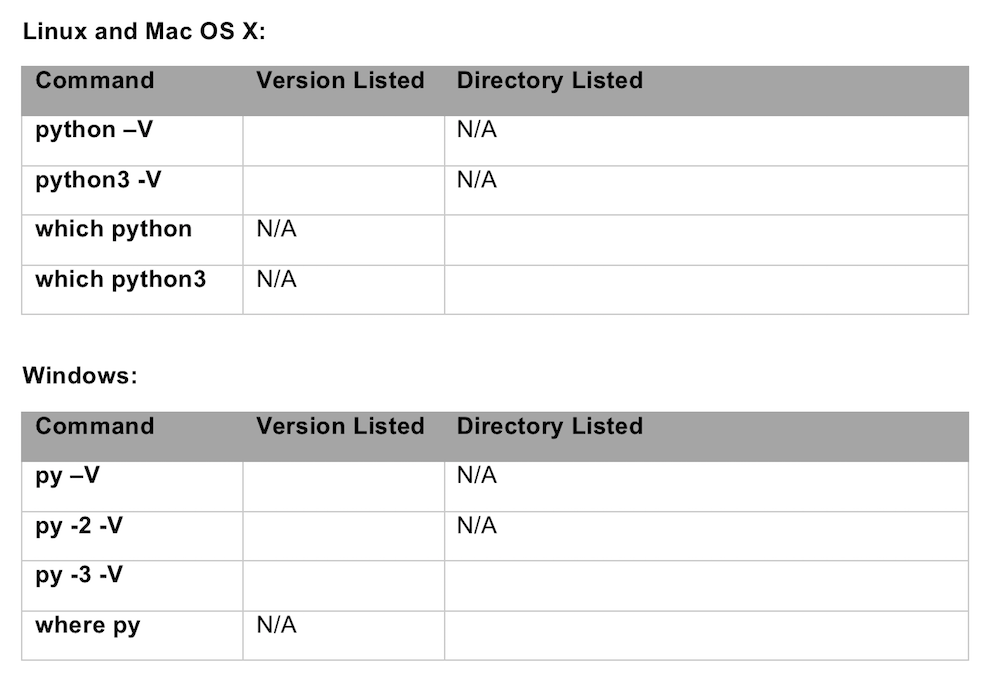
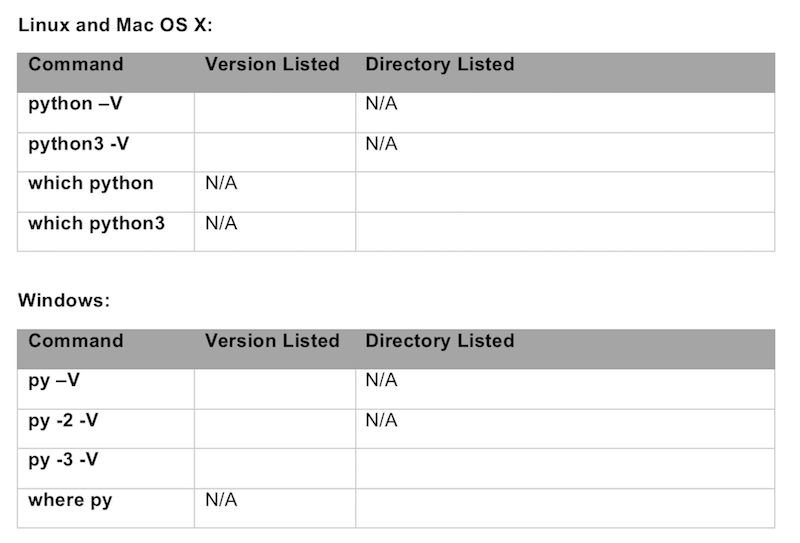
Edits to mod 2 labs 1, 2, 3 per Chris Burns Word doc vs web page review
Chris B is tasked to view web pages on the staging server vs. the Word doc for formatting, content presence or changes, etc. He did so, made notes, and I edited the MD files etc. These are the changes.  NO module 1 lab files changed with this commit.

diff --git a/labs/02-python-01-home-lab-python/5.md b/labs/02-python-01-home-lab-python/5.md
@@ -1,5 +1,4 @@
 # Installing and Verifying Python 2.7
-----------------------------------------
 
 Now that you know what you have installed, what do you want installed? Do you want a recent 2.x and 3.x Python interpreter? Do you only want to use Python 3.x (that is, some recent version 3 code)? Or only Python 2.7?
 
@@ -35,7 +34,7 @@ The installation process on most Windows OS’s follows a pretty typical Windows
 
 Note that on Windows, you should take the extra steps to put the **python** command in your system’s execution path. The Python installer, by default, does not add the directories with the Python commands in them to the PATH variable. You should override that default at installation, adding Python to your PATH. For Python 2.7, you have to first select the option to use custom settings for the installation, and then look for the option to add the commands to the path, as shown on the left side of the figure. The Python 3.6 process puts the checkbox on a screen that is part of each system’s installation process, as shown on the right side of the figure.
 
-![alt text](/posts/files/02-python-01-home-lab-python/assets/images/desktop-1-10.png)
+![alt text](/posts/files/02-python-01-home-lab-python/assets/images/desktop-1-09.png)
 
 ## Installing Python 2.7 on Linux
 
@@ -59,7 +58,7 @@ To install Python, or upgrade from an older minor version, use the **apt-get** o
 
 Note that Linux package managers may not have the latest Python version in their index, so that you can install a recent - but not most recent - release of Python. The package manager may be more convenient, but the package installer might be a few minor versions behind. For instance, if using the apt package manager, you could compare the specific releases that you could install with both installation options as follows:
 
--   From any web browser, check the Python Software Foundation downloads page to find the most recent release. (You can download the most recent release, or earlier releases as well.)
+-   From any web browser, check the [Python Software Foundation downloads page](https://www.python.org/downloads/) to find the most recent release. (You can download the most recent release, or earlier releases as well.)
 
 -   From a command shell, use the **sudo apt show python** command, which lists details about the python package per the apt index. Near the top, you should see a range of specific version/release numbers that apt can install.
 
@@ -69,9 +68,9 @@ Apple includes Python 2.x with Mac OS X, and if your Mac has a recent OS, Python
 
 Regardless, you can install the latest Python (to upgrade the existing Python) if you prefer. To do so, you have two options:
 
--   Similar to Windows: Download an installer file for that option from python.org
+-   Similar to Windows: Download an installer file for that option from [python.org](https://www.python.org)
 
--   Similar to Linux: Use an OS X application package manager, like HomeBrew, to find and install the Python interpreter.
+-   Similar to Linux: Use an OS X application package manager, like [HomeBrew](https://brew.sh/), to find and install the Python interpreter.
 
 The first option follows the same general steps as just listed for a Windows installation. You browse the [python.org site](https://www.python.org/downloads/mac-osx/), download the installer (a .dmg file for OS X), and run the installer file to walk through the installation process.
 
@@ -82,21 +81,3 @@ The second option uses a package manager. Most end-user Mac application install 
 Did you update your code while working through the steps on this page? Repeat the commands in these tables for your chosen OS, and make some notes as to what you have installed at this point.
 
 ![alt text](/posts/files/02-python-01-home-lab-python/assets/images/desktop-1-table-1.png)
-
-**Linux and Mac OS X:**
-
-| Command       | Version Listed | Directory Listed |
-|---------------|----------------|------------------|
-| python -V     |                | N/A              |
-| python3 -V    |                | N/A              |
-| which python  | N/A            |                  |
-| which python3 | N/A            |                  |
-
-**Windows:**
-
-| Command  | Version Listed | Directory Listed |
-|----------|----------------|------------------|
-| py -V    |                | N/A              |
-| py -2 -V |                | N/A              |
-| py -3 -V |                |                  |
-| where py | N/A            |                  |

diff --git a/labs/02-python-01-home-lab-python/8.md b/labs/02-python-01-home-lab-python/8.md
@@ -4,13 +4,13 @@ The commands listed for the steps in this lab should work well on your computer,
 
 ## The Windows py Command Versus the python Command
 
-First, this lab uses a Python for Windows feature called the Python Launcher because this lab asks you to start Python on Windows using the **py** command. The Python Launcher provides one command – the **py** command – that applies rules so that the command can choose the correct instance of Python to execute on that Windows machine, among all the installed instances. The Python Launcher is designed to help solve the problem of the OS deciding which Python to use when multiple versions are installed.
+First, this lab uses a Python for Windows feature called the Python Launcher because this lab asks you to start Python on Windows using the **py** command. The [Python Launcher](https://www.python.org/dev/peps/pep-0397/) provides one command – the **py** command – that applies rules so that the command can choose the correct instance of Python to execute on that Windows machine, among all the installed instances. The Python Launcher is designed to help solve the problem of the OS deciding which Python to use when multiple versions are installed.
 
 One obvious way to use the Windows Python Launcher is to use the **-2** and **-3** options on the **py** command. These options execute the default Python version 2 or version 3 interpreter on that OS, respectively. So, if you install only one version of Python 2.7, just remember to use the **py -2** **...** command. Likewise, to start that one Python 3.x version that is installed, just use the **py -3** **...** command. Simple enough.
 
 At the same time, you could still use the **python** command on Windows. The Python installation process installs an executable named **python**. Interestingly, the **python** command on Windows will likely execute the version of Python that was most recently installed. So, what version of Python will you run if you use the **python** command? You can always just type the **python** command, and look at the version displayed as the interactive interpreter session begins, to decide what version of Python you are running with that command. Or use the **python –V** command to list the version.
 
-Of course, there is more to know beyond these basics – for more information, check out this doc page about how to install and use Python on Windows.
+Of course, there is more to know beyond these basics – for more information, check out [this doc page about how to install and use Python on Windows](https://docs.python.org/3/using/windows.html).
 
 ## Other Linux and Mac Python Commands
 

diff --git a/labs/02-postman-03-home-lab-postman-etc/3.md b/labs/02-postman-03-home-lab-postman-etc/3.md
@@ -18,7 +18,7 @@ Summing up the flow, you will likely use the documentation for the specific REST
 
 Because you may learn multiple REST APIs, a REST client application can improve workflows and provide some better functions than just making the jump from API documentation to writing your own code. The REST client can sit between the original steps of learning about a REST API and then adding and perfecting those calls in your program. You would still begin with the documentation for a REST API, and still finish the process with API calls in your program. However, most of the detailed work to build and test your API calls would occur in the REST client.
 
-![alt text](/posts/files/02-postman-03-home-lab-postman-etc/assets/images/Desktop-3-08.png)
+![alt text](/posts/files/02-postman-03-home-lab-postman-etc/assets/images/desktop-3-08.png)
 
 The Postman app may be your best option for a REST client app in your home lab. You can use it permanently, for free. You can add, edit, save, and document your API calls separate from your programs, working with the API calls as an end to themselves. For instance, if you create a few API calls for a DevNet lab, you can save those as a group, called a *collection* in Postman, add a few sentences of documentation, and save them for the next time you experiment. You can share the collections on API calls with co-workers or others that you are studying with. And most REST clients will generate working code in several languages, so when you are happy with your API call’s details, you can easily add it to your program. (This DevNet Learning Lab will show an example of Postman’s collection sharing, testing API calls, and code generation.)
 

diff --git a/labs/02-python-01-home-lab-python/1.md b/labs/02-python-01-home-lab-python/1.md
@@ -25,7 +25,7 @@ Think about what anyone needs when first learning about the Command Line Interfa
 
 Learning about network programmability requires many more tools of different types on your desktop OS, many that come from the software development world. However, when working through some learning exercise, the tool itself might not be the point of the exercise. The user might work through the tool installation very quickly just as some task to complete before getting back to the main topic in the exercise. For instance, if you are using a DevNet Learning Lab that tells you to run a Python version 3 program, and you do not have Python 3 installed, you might quickly install Python 3, ignoring any details other than those required to get it working.
 
-This learning lab, and some others in the same DevNet Learning Track, take a step back from that hectic pace to focus more on the tools, specifically tools that you will need to use in your home lab when learning network programmability. Rather than the tool being a short aside in a lab, the tools are the stars of this lab and the others in this learning track.
+This learning lab, and some others in the same [DevNet Learning Track](https://learninglabs.cisco.com/tracks/home-lab), take a step back from that hectic pace to focus more on the tools, specifically tools that you will need to use in your home lab when learning network programmability. Rather than the tool being a short aside in a lab, the tools are the stars of this lab and the others in this learning track.
 
 This lab examines the answers to these questions. Specifically, what else do you need to install or add to your home lab, to:
 

diff --git a/labs/02-python-01-home-lab-python/3.md b/labs/02-python-01-home-lab-python/3.md
@@ -26,6 +26,6 @@ To write Python code that calls the APIC-EM API, or even to use REST clients lik
 
 Cisco Spark is a cloud-based service that provides a variety of collaboration tools, including messaging. Because it has an API, you can use Spark as a means to communicate with others regarding what your network programs do or sense. Even if you are learning on your own, without others to collaborate with, using the Spark API can be both useful for learning and useful when creating your own networking projects.
 
-Note that you would not need a DevNet sandbox or even your own device to experiment with in this case. Spark runs as a cloud-based service, that is, the API calls are made against a service that is already running for normal users. Look to the third lab in this DevNet Learning Module (“Home Lab: Setting up Postman and Other Programming Tools”) for more detail about Spark and accessing the Spark API.
+Note that you would not need a DevNet sandbox or even your own device to experiment with in this case. Spark runs as a cloud-based service, that is, the API calls are made against a service that is already running for normal users. Look to the third lab in this [DevNet Learning Module](https://learninglabs.cisco.com/modules/home-lab-desktop)DevNet Learning Module (“Home Lab: Setting up Postman and Other Programming Tools”) for more detail about Spark and accessing the Spark API.
 
 Now that you know about some of the key DevNet resources, the rest of this lab focuses on Python, and how to make it work on your computer.

diff --git a/labs/02-pip-ve-02-home-lab-pip-virtual-environment/8.md b/labs/02-pip-ve-02-home-lab-pip-virtual-environment/8.md
@@ -17,11 +17,7 @@ These next exercise steps compare and contrast what happens when you start the P
 1.  Open a command prompt (or use the existing one).
 2.  Change directories to move to the directory of the virtual environment. (Note: in everyday use, you do not have to change directories to use the virtual environment; these labs steps just start in that directory to make the lab step wording work.) For instance, if you used all the directory names as shown in this lab, open a new command shell, and begin in a home directory like /users/wendellodom, and then use the **cd labenvs/devnet01** command or similar.
 3.  Activate the virtual environment by executing the “activate” script in the virtual environment’s directory, using the appropriate command from the following table. Note the commands assume you are in the directory of the virtual environment, as they list the relative location of the activation scripts.
-
-|Function | Linux/Mac Command   |Windows Command       |
-|---------|---------------------|----------------------|
-| Command to run the activation script, assuming the current directory is the environment’s directory |**source bin/activate** | **scripts\activate.bat** |
-
+![alt text](/posts/files/02-pip-ve-02-home-lab-pip-virtual-environment/assets/images/desktop-2-table-01.png)
 
 
 1.  The activate script also changes the command prompt. Look to the beginning of the prompt in your command shell; it should list the name of the virtual environment (devnet01 in the examples in this lab).

diff --git a/labs/02-pip-ve-02-home-lab-pip-virtual-environment/3.md b/labs/02-pip-ve-02-home-lab-pip-virtual-environment/3.md
@@ -2,7 +2,7 @@
 
 For many Python tasks, you may not find a useful built-in or optional module to do the work you want to accomplish. In those cases, you may learn about some other Python modules that you can easily download and use on your computer. In fact, many Python programs take advantage of other Python modules not found in the Python Standard Library.
 
-To make the process of using other Python modules much easier, the Python Software Foundation gives us a couple of important tools. First, they create a repository of information about available software packages (that is, groups of Python modules available for download). That repository, called the Python Package Index (PyPI), allows a programmer to add their code to PyPI, enabling anyone else to discover the package, download it, and use it.
+To make the process of using other Python modules much easier, the Python Software Foundation gives us a couple of important tools. First, they create a repository of information about available software packages (that is, groups of Python modules available for download). That repository, called the [Python Package Index](https://pypi.python.org/pypi) (PyPI), allows a programmer to add their code to PyPI, enabling anyone else to discover the package, download it, and use it.
 
 ![alt text](/posts/files/02-pip-ve-02-home-lab-pip-virtual-environment/assets/images/desktop-2-03.png)
 

diff --git a/labs/02-python-01-home-lab-python/4.md b/labs/02-python-01-home-lab-python/4.md
@@ -29,21 +29,3 @@ On Linux and OS X, note that you run (execute) the Python 2 interpreter with the
 For instance, Apple has included some recent Python 2.7 in all the recent OS X releases, but they still do not include a Python 3.x version. If you have not yet installed Python 3 on your Mac, then the **python3** command should simply be rejected with a message like “command not found”, and the **which python3** command should show that the executable cannot be found. However, many recent Linux builds include both Python 2 and Python 3.
 
 ![alt text](/posts/files/02-python-01-home-lab-python/assets/images/desktop-1-table-1.png)
-
-**Linux and Mac OS X:**
-
-| Command       | Version Listed | Directory Listed |
-|---------------|----------------|------------------|
-| python –V     |                | N/A              |
-| python3 -V    |                | N/A              |
-| which python  | N/A            |                  |
-| which python3 | N/A            |                  |
-
-**Windows:**
-
-| Command  | Version Listed | Directory Listed |
-|----------|----------------|------------------|
-| py –V    |                | N/A              |
-| py -2 -V |                | N/A              |
-| py -3 -V |                |                  |
-| where py | N/A            |                  |

diff --git a/labs/02-postman-03-home-lab-postman-etc/4.md b/labs/02-postman-03-home-lab-postman-etc/4.md
@@ -6,7 +6,7 @@ This short page works through two quick tasks – installing the Postman desktop
 
 Installing Postman is simple. Just search for “install Postman app” or something similar, and find the download link. Or just try [this link](https://www.getpostman.com/apps). Then you can install the (free) version for your preferred OS.
 
-(Note: Postman formerly had an option to run as a Google Chrome app, rather than a desktop app, so you may see references to Postman as a Chrome app. With Google phasing out Chrome Apps as a feature, today instead use the Postman desktop app.
+(Note: Postman formerly had an option to run as a Google Chrome app, rather than a desktop app, so you may see references to Postman as a Chrome app. With [Google phasing out Chrome Apps as a feature](https://blog.chromium.org/2016/08/from-chrome-apps-to-web.html), today instead use the Postman desktop app.
 
 ## Verifying Postman
 

diff --git a/labs/02-python-01-home-lab-python/6.md b/labs/02-python-01-home-lab-python/6.md
@@ -8,7 +8,7 @@ On both Linux and Mac, you call Python version 3 with the **python3** command, w
 
 Just as with Python V2.7, for Python 3.x, you can install using a package manager, or download from Python.org and install. As with the Python 2.7 installation process, take a moment to check the available releases via download and your package manager. For instance:
 
--   From any web browser, check the Python Software Foundation downloads page to find the most recent release of Python 3.x. (You can download the most recent release, or earlier releases as well.)
+-   From any web browser, check the [Python Software Foundation](https://www.python.org) downloads page to find the most recent release of Python 3.x. (You can download the most recent release, or earlier releases as well.)
 
 -   From a command shell, check the releases available with your package manager:
 

diff --git a/labs/02-pip-ve-02-home-lab-pip-virtual-environment/4.md b/labs/02-pip-ve-02-home-lab-pip-virtual-environment/4.md
@@ -24,7 +24,7 @@ One way to call PIP to work with one Python version or another is to first call 
 
 The next figure lists the commands, and summarizes the main concepts. For instance, **python –m pip list** calls the Python 2.x interpreter, which will then run the **pip** command for Python 2.x (because the **python** command on Linux/Mac calls the Python 2.7 interpreter). The **python3 -m pip list** command on Linux/Mac calls the Python 3.x interpreter, resulting in the execution of the **pip** command for Python 3.x.
 
-![alt text](/posts/files/02-pip-ve-02-home-lab-pip-virtual-environment/assets/images/desktop-2-05.png)
+![alt text](/posts/files/02-pip-ve-02-home-lab-pip-virtual-environment/assets/images/desktop-2-06.png)
 
 #### Using the pip2 and pip3 Commands
 

diff --git a/labs/02-postman-03-home-lab-postman-etc/2.md b/labs/02-postman-03-home-lab-postman-etc/2.md
@@ -24,7 +24,7 @@ If you were to do only a couple of additional DevNet Learning Labs for the purpo
 
 If you want to use many more DevNet Learning Labs as a means to learn more about these tools, the [Introduction to DevNet Learning Track](https://learninglabs.cisco.com/tracks/devnet-beginner) provides a great starting point, with four modules about the topics shown in the next figure:
 
-![alt text](/posts/files/02-postman-03-home-lab-postman-etc/assets/images/Desktop-3-05.png)
+![alt text](/posts/files/02-postman-03-home-lab-postman-etc/assets/images/desktop-3-05.png)
 
 ## Some Relevant DevNet Sandbox Labs
 
